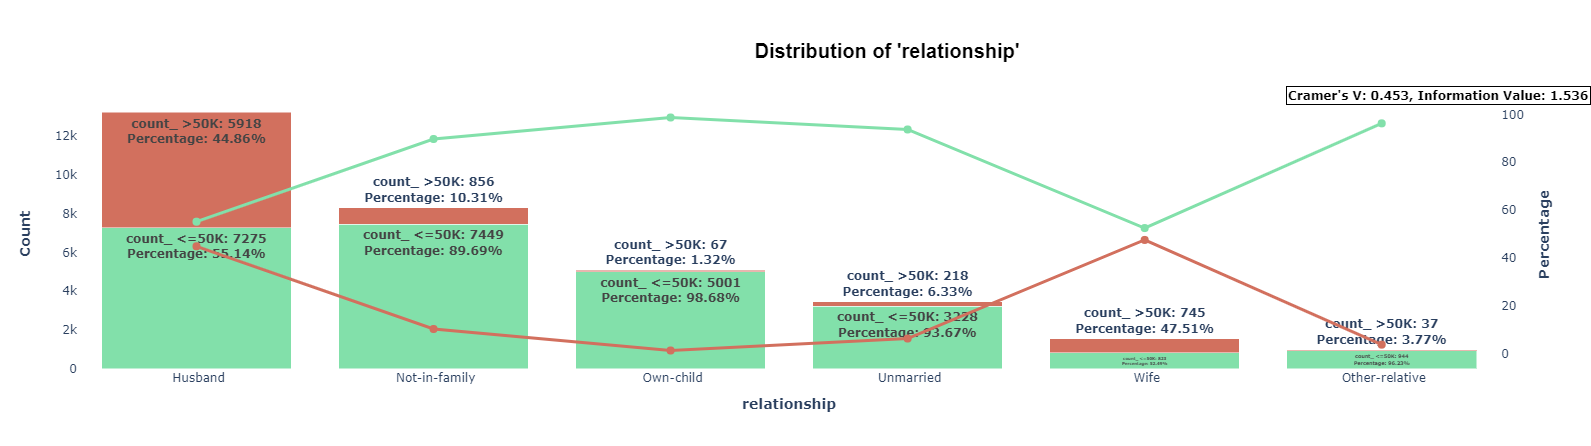
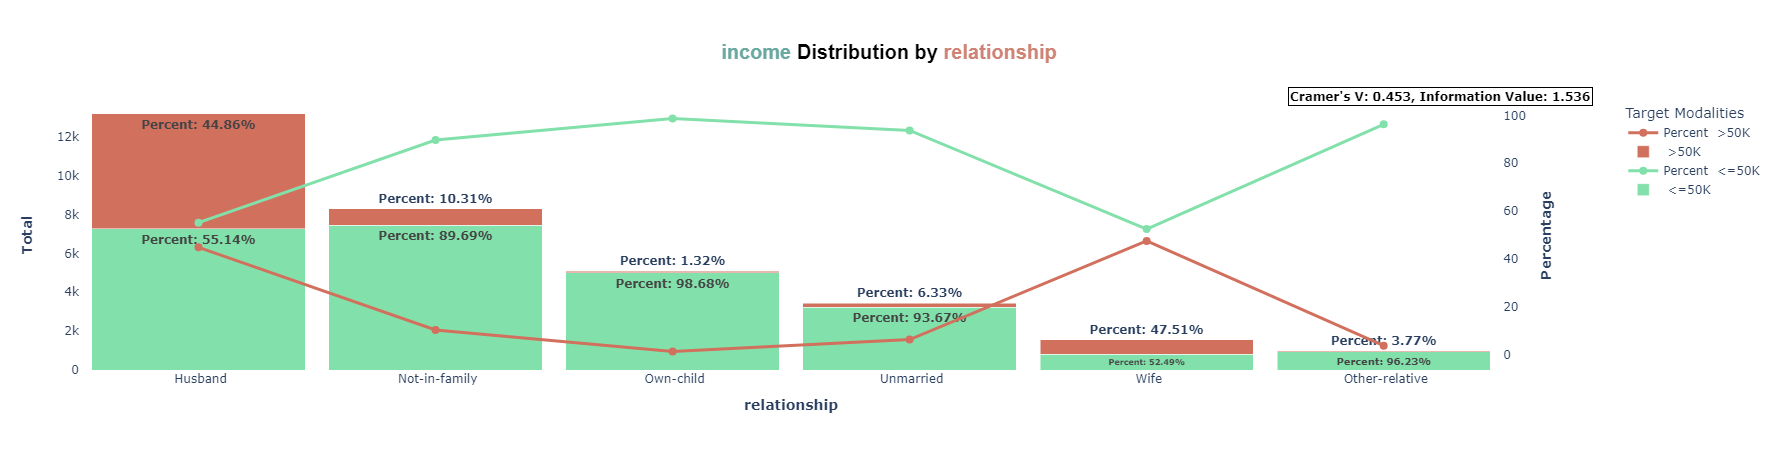
updating readme.md

diff --git a/scorescanner/utils/plotting.py b/scorescanner/utils/plotting.py
@@ -116,6 +116,7 @@ def generate_bar_plot(
     info_value = one_vs_rest_woe(
         df=df, feature=feature, target_var=target_var, cat_ref=cat_ref
     )[1]
+   
 
     # Create a Plotly subplot with a secondary y-axis for percentages.
     fig = make_subplots(specs=[[{"secondary_y": True}]])
@@ -130,16 +131,17 @@ def generate_bar_plot(
                 name=modalite,
                 marker=dict(color=color),
                 hoverinfo="all",
+                width=0.9,
                 hovertemplate=stats_df.apply(
                     lambda row: f"<b>{count_col}: {row[count_col]}<br>"
                     f"Percentage: {row[percent_col]:.2f}%<br>"
                     f"WoE: {row['WoE']:.2f}<br>"
-                    f"JS Distance: {row['Jensen-Shannon Distance']:.2f}",
+                    f"JS Distance: {row['Jensen-Shannon Distance']:.2f}<br>"
+                    f"Total Modality: {row['count']}<br>",
                     axis=1,
                 ),
                 text=stats_df.apply(
-                    lambda row: f"<b>{count_col}: {row[count_col]}<br>"
-                    f"Percentage: {row[percent_col]:.2f}%<br>",
+                    lambda row: f"<b>"f"Percent: {row[percent_col]:.2f}%<br>",
                     axis=1,
                 ),
                 customdata=stats_df[percent_col],
@@ -163,15 +165,17 @@ def generate_bar_plot(
     # Configuring the layout of the chart
     fig.update_layout(
         title={
-            "text": f"<b>Distribution of '{feature}'</b>",
+            "text": f"<b><span style='color: #6AA9A1;'>{target_var}</span> Distribution by <span style='color: #CF8374;'>{feature}</span></b>",
+            "y": 0.9,
             "y": 0.9,
             "x": 0.5,
             "xanchor": "center",
             "yanchor": "top",
             "font": {"size": 20, "color": "black", "family": "Arial, sans-serif"},
         },
+        bargap=0.01,
         xaxis_title=f"<b>{feature}",
-        yaxis_title="<b>Count",
+        yaxis_title="<b>Total",
         yaxis2_title="<b>Percentage",
         barmode="stack",
         hovermode="x",
